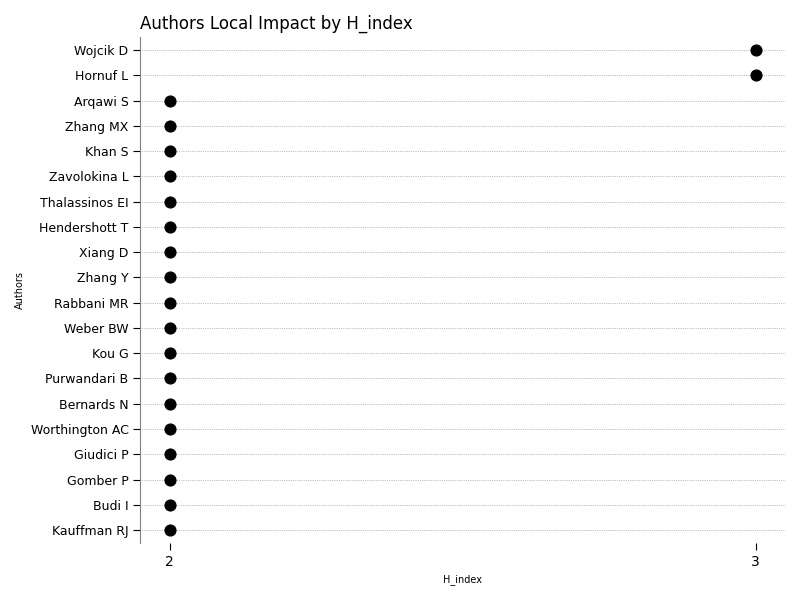
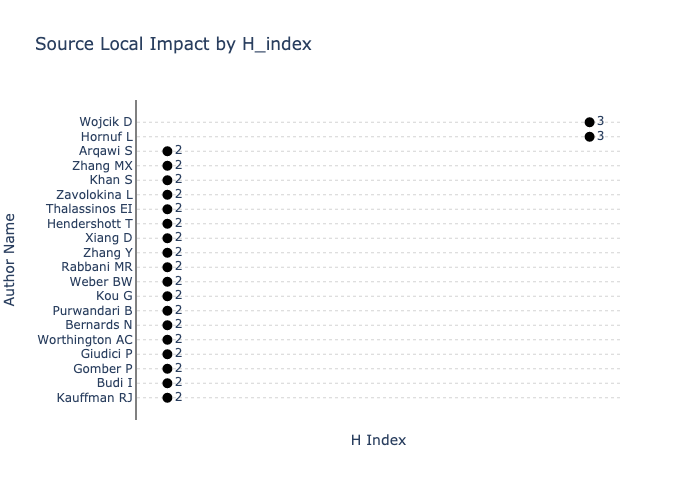
plotly

diff --git a/techminer2/author_local_impact.py b/techminer2/author_local_impact.py
@@ -1,5 +1,5 @@
 """
-Author Local Impact
+Author Local Impact (*)
 ===============================================================================
 
 
@@ -11,62 +11,44 @@ Author Local Impact
 ...     impact_measure='h_index', 
 ...     top_n=20, 
 ...     directory=directory,
-... ).savefig(file_name)
+... ).write_image(file_name)
 
 .. image:: images/author_local_impact.png
     :width: 700px
     :align: center
 
 
->>> author_local_impact(
-...     impact_measure='h_index', 
-...     top_n=20, 
-...     directory=directory, 
-...     plot=False,
-... ).head()
-          num_documents  ...  avg_global_citations
-authors                  ...                      
-Wojcik D              5  ...                  3.80
-Hornuf L              3  ...                 36.67
-Arqawi S              2  ...                  2.50
-Zhang MX              2  ...                  6.00
-Khan S                2  ...                 18.50
-<BLANKLINE>
-[5 rows x 9 columns]
 
 """
-
-
-from ._cleveland_chart import _cleveland_chart
+from ._bibliometrix_scatter_plot import bibliometrix_scatter_plot
 from .impact_indicators import impact_indicators
 
 
 def author_local_impact(
     impact_measure="h_index",
     top_n=20,
-    color="k",
-    figsize=(8, 6),
     directory="./",
-    plot=True,
 ):
-    if impact_measure not in ["h_index", "g_index", "m_index", "global_citations"]:
+
+    if impact_measure not in [
+        "h_index",
+        "g_index",
+        "m_index",
+        "global_citations",
+    ]:
         raise ValueError(
             "Impact measure must be one of: h_index, g_index, m_index, global_citations"
         )
 
     indicators = impact_indicators(directory=directory, column="authors")
     indicators = indicators.sort_values(by=impact_measure, ascending=False)
-
-    if plot is False:
-        return indicators
-
     indicators = indicators[impact_measure].head(top_n)
 
-    return _cleveland_chart(
-        indicators,
-        figsize=figsize,
-        color=color,
-        title="Authors Local Impact by " + impact_measure.capitalize(),
-        xlabel=impact_measure.capitalize(),
-        ylabel="Authors",
+    return bibliometrix_scatter_plot(
+        x=indicators,
+        y=indicators.index,
+        title="Source Local Impact by " + impact_measure.capitalize(),
+        text=indicators,
+        xlabel=impact_measure.replace("_", " ").title(),
+        ylabel="Author Name",
     )

diff --git a/techminer2/cleveland_chart.py b/techminer2/cleveland_chart.py
@@ -1,5 +1,5 @@
 """
-Cleveland Chart (updated to use Plotly)
+Cleveland Chart (*)
 ===============================================================================
 
 

diff --git a/techminer2/core_sources.py b/techminer2/core_sources.py
@@ -1,5 +1,5 @@
 """
-Core Sources
+Core Sources (*)
 ===============================================================================
 
 

diff --git a/sphinx/_vantagepoint.rst b/sphinx/_vantagepoint.rst
@@ -76,6 +76,7 @@ Report (Plotly)
         :maxdepth: 1
 
         bar_chart
+        cleveland_chart
         column_chart
         circle_chart
         line_chart
@@ -92,7 +93,7 @@ Report
     .. toctree::
         :maxdepth: 1
 
-        cleveland_chart
+        
         dotted_gantt_chart
         gantt_chart 
         
